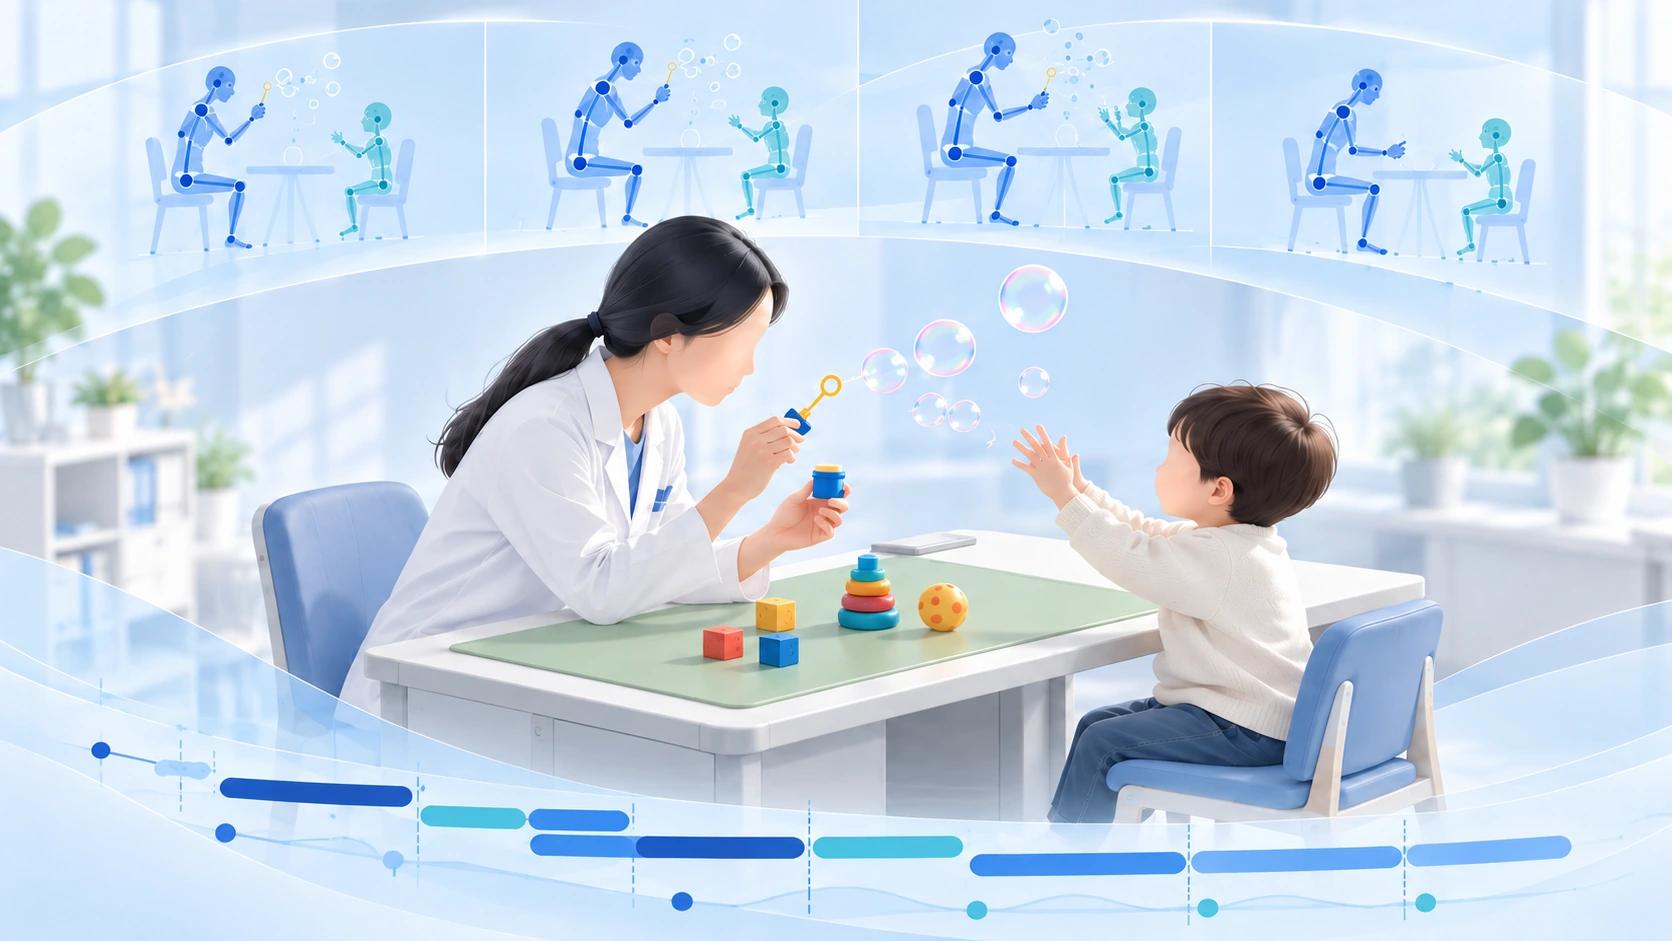
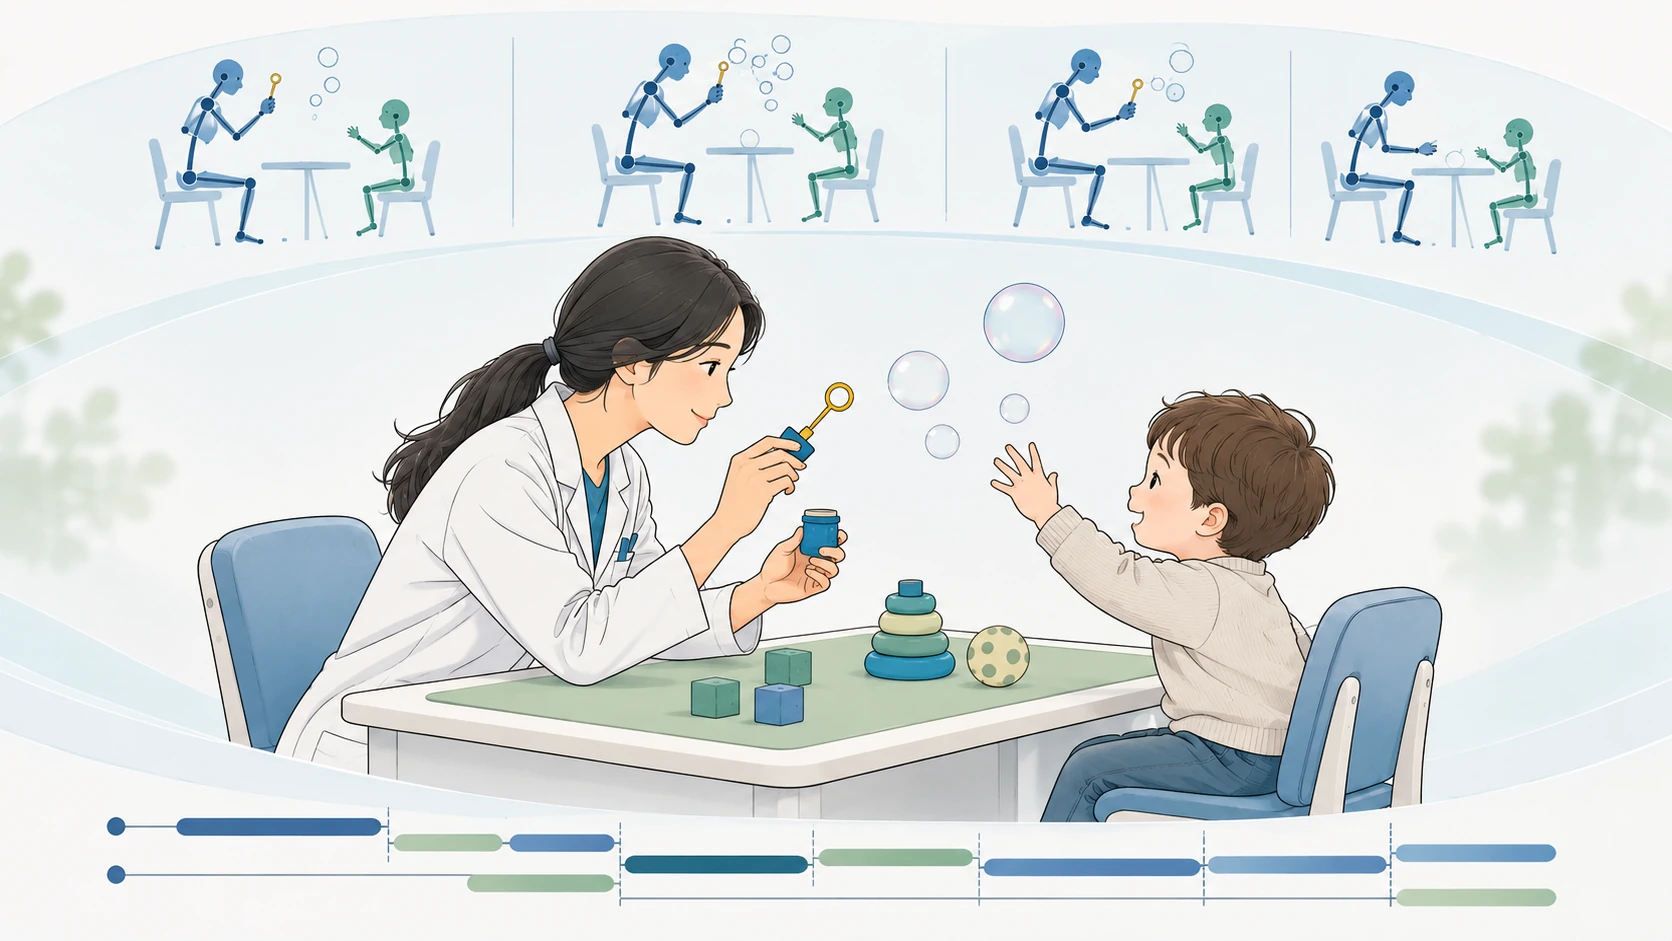
Revise honors and grant name and simplify the interaction illustration

diff --git a/assets/styles/site.css b/assets/styles/site.css
@@ -50,20 +50,7 @@ h1, h2, .paper-card h3, .paper-list h3 { font-family: var(--serif); }
 .button.primary { background: var(--teal); color: white; border-color: var(--teal); }
 .button.primary:hover { background: #104a45; }
 .hero-figure { width:100%; min-width:0; align-self:center; overflow:hidden; border:1px solid #cad8d7; border-radius:9px; background:#fff; }
-.hero-figure > img { width:100%; height:auto; aspect-ratio:2.28; object-fit:cover; object-position:center top; }
-.hero-figure figcaption { padding:11px 16px 14px; border-top:1px solid #d9e5e9; }
-.hero-figure figcaption strong { display:block; margin-bottom:8px; font-size:.88rem; line-height:1.4; font-weight:620; }
-.segment-row { display:grid; grid-template-columns:3em 1fr; gap:7px; align-items:center; font-size:.8rem; }
-.segment-row + .segment-row { margin-top:5px; }
-.track-name { font-weight:600; color:#41595c; }
-.segment-row ol { list-style:none; display:grid; padding:0; margin:0; gap:2px; }
-.adult-track ol { grid-template-columns: 1fr 1.3fr 1fr; }
-.child-track ol { grid-template-columns: 1.18fr 1fr; }
-.segment-row li { display:grid; place-items:center; padding:3px 2px; text-align:center; line-height:1.35; border-top:2px solid; }
-.adult-track li { background:#e6eef9; border-color:#7296c4; color:#23466e; }
-.adult-track li:nth-child(2) { background:#d4e4f7; border-color:#587fb6; }
-.child-track li { background:#e0f2ee; border-color:#76ac9f; color:#285950; }
-.child-track li:nth-child(2) { background:#cfeae2; border-color:#519488; }
+.hero-figure > img { width:100%; height:auto; }
 .pub-section,.record { padding-block: clamp(32px,3.3vw,48px); }
 .section-head { display: flex; align-items: center; justify-content: space-between; gap: 20px; margin-bottom: 21px; }
 h2 { font-size: clamp(1.85rem,2.45vw,2.45rem); font-weight: 630; letter-spacing: -.045em; line-height: 1.2; }
@@ -148,8 +135,7 @@ footer { border-top: 1px solid var(--rule); font-size: .82rem; color: #536764; }
   nav {display:none;position:absolute;top:100%;left:0;right:0;height:auto;background:white;border-bottom:1px solid var(--rule);padding:9px 18px 14px;box-shadow:0 8px 14px #142b2c0e;}
   .menu-open nav {display:flex;flex-direction:column;gap:0} nav a {padding:10px} nav a[aria-current]::after {display:none}
   .eyebrow {font-size:.77rem} .identity h1 {font-size:2.7rem} .intro-text {line-height:1.75}
-  .hero-grid {padding-block:25px 23px;gap:21px} .hero-figure figcaption {padding:9px 10px 11px;}
-  .hero-figure {border-radius:6px} .segment-row {grid-template-columns:2.5em 1fr;gap:4px;}
+  .hero-grid {padding-block:25px 23px;gap:21px} .hero-figure {border-radius:6px}
   .pub-section,.record {padding-block:29px} .section-head {gap:10px;margin-bottom:17px;flex-wrap:wrap}
   h2 {font-size:1.9rem} .section-head h2 {gap:8px} .count {font-size:.74rem;padding:4px 5px}
   .segmented a {font-size:.78rem;padding:4px 8px} .cards {gap:19px} .paper-card {display:flex}

diff --git a/assets/js/profile-data.js b/assets/js/profile-data.js
@@ -73,7 +73,7 @@
     entry("基于动作分割的孤独症行为分析方法研究",
       "Action segmentation for behavioral analysis in autism",
       "深圳市科技重大专项 · JCYJ20240813105137049 · 30 万元 · 在研",
-      "Shenzhen Major Science and Technology Projects · JCYJ20240813105137049 · CNY 300,000 · Ongoing",
+      "Shenzhen Science and Technology Program · JCYJ20240813105137049 · CNY 300,000 · Ongoing",
       "作为学生技术负责人，参与实现面向儿童孤独症筛查的行为分割方法。",
       "As the student technical lead, I help implement behavioral segmentation for childhood autism screening."),
     entry("面向家庭环境的孤独症儿童社交能力干预关键技术",
@@ -100,7 +100,7 @@
     return entry(zh, en, year, year);
   }
   const awards = [
-    honor("优秀学生、优秀团员", "Outstanding Student and Outstanding Youth League Member", "2024–2026"),
+    honor("优秀学生、优秀团员", "Outstanding Student and Outstanding Youth League Member", "2025–2026"),
     honor("中国科协青年科技人才培育工程博士生专项计划、比亚迪奖学金、优秀团员",
       "CAST doctoral program for young researchers, BYD Scholarship and Outstanding Youth League Member", "2024–2025"),
     honor("国家奖学金、研究生特等奖学金、优秀学生、优秀团员",
